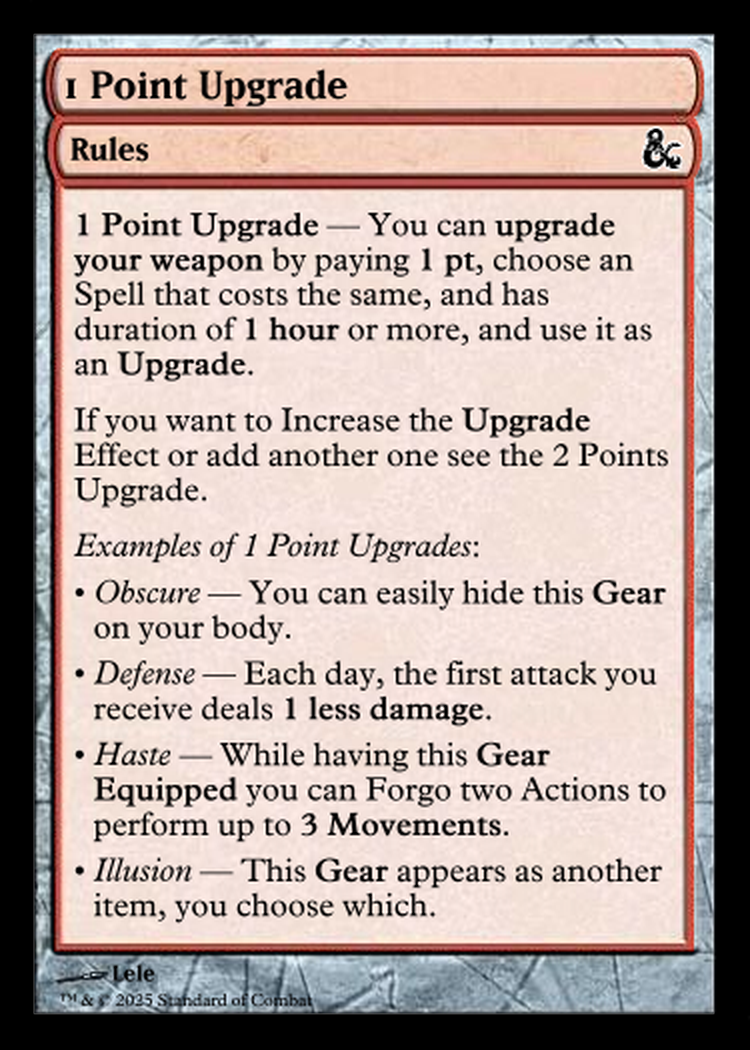
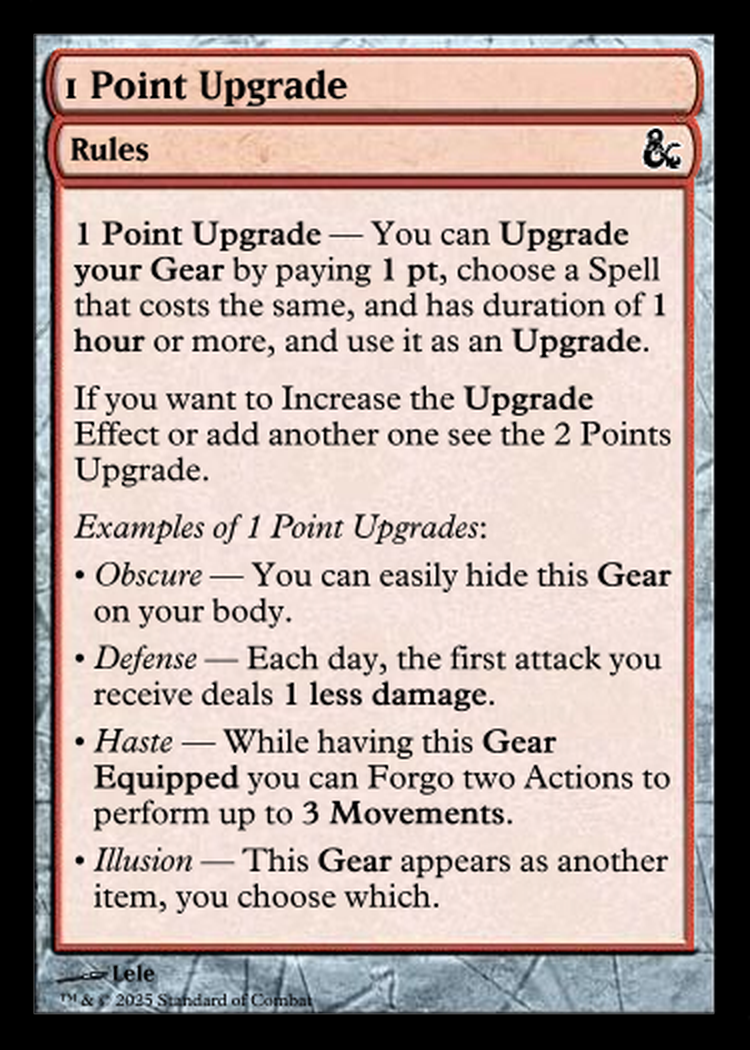
Quartz sync: Aug 1, 2025, 9:37 AM

Changed region(s): [[0.092, 0.1829, 0.8893, 0.8838]]

diff --git a/content/Notes & Images/Heal and Repair.md b/content/Notes & Images/Heal and Repair.md
@@ -2,13 +2,13 @@
 aliases:
   - Heal
   - Repair
-  - regain
+  - Regain
   - Repaired
   - Healed
 ---
 %%
 - ***Type***: Rules - Table
-- ***Description***:<br>To regain [[SoC • Rules Chapter - HEALTH|Health]] you move a certain number of [[SoC • Rules Chapter - HEALTH|Health Cards]] from your [[SoC • Rules - Discard Pile]] to your [[SoC • Rules - Your Deck, Your Character]].<br><br>**Healing**:<br>• You can magically heal a Creature (including yourself) by using a [[SoC • Spell Effect - Restore|Restoring]] [[SoC • Rules Chapter - CUSTOM SPELLS|Spell]]. You'll instantly **regain** **1 or more** [[SoC • Rules Chapter - HEALTH|Health Cards]], specified by the spell effect.<br>• If you some have time to spare, or as part of a [[Rest and Recovery|short rest]], you can try using the [[Medicine]] skill.<br>• After [[Rest and Recovery|a Night of Rest]] you'll regain all [[SoC • Rules Chapter - HEALTH|Character's Health]].<br><br>**Repairing**:<br>• For [[Damaged Gear|Damaged Gear and Equipment]], you can use a [[SoC • Spell Effect - Mend|Mending]] spell to instantly repair it.<br>• If you have time to spare, or as part of a [[Rest and Recovery|short rest]], you can try to use the [[Forging]] skill.<br>• ***However, [[SoC • Rules - Destroyed Gear]] cannot be repaired, and will need to replaced entirely***. 
+- ***Description***:<br>**Healing**:<br>• You can magically heal a Creature (including yourself) by using a **[[SoC • Spell Effect - Restore|Restoring]] [[SoC • Rules Chapter - CUSTOM SPELLS|Spell]]**. You'll instantly **regain 1 or more** [[SoC • Rules Chapter - HEALTH|Health Cards]], specified by the spell effect. (_take that number of Health Cards from your [[SoC • Rules - Discard Pile|Discard Pile]] and add them back to your Deck_)<br>• If you some have time to spare, or as part of a [[Rest and Recovery|short rest]], you can try using the **[[Medicine]] [[SoC • Rules Chapter - SKILLS|Skill]]**.<br>• After [[SoC • Rules - A Night of Rest|A Night of Rest]] you'll regain all [[SoC • Rules Chapter - HEALTH|Character's Health]].<br><br>**Repairing**:<br>• For [[Damaged Gear|Damaged Gear and Equipment]], you can use a **[[SoC • Spell Effect - Mend|Mending]] [[SoC • Rules Chapter - CUSTOM SPELLS|Spell]]** to instantly repair it.<br>• If you have time to spare, or as part of a [[SoC • Rest and Recovery - Short Rest|Short Rest]], you can try to use the [[Forging]] skill.<br>• ***However, [[SoC • Rules - Destroyed Gear|Destroyed Gear]] cannot be repaired, and will need to replaced entirely***. 
 - ***Flavor***: 
 - ***Rarity***: common
 - ***Color***: artifact, white 
@@ -16,9 +16,5 @@ aliases:
 - ***Background Color***: 
 - ***Image Filter***: 
 %%
-
-### Card
-
-![[SoC • Card - Heal and Repair.png|325]]
 
 ![[SoC • Card - Heal and Repair.png|325]]

diff --git a/content/Notes & Images/Forging.md b/content/Notes & Images/Forging.md
@@ -1,7 +1,7 @@
 %%
 - ***Image***:<br>![[Forging (image).png|222]]
 - ***Info***: Skill
-- ***Description***:<br>Learn the art of the **Forge** to:<br>• [[SoC • Rules - Craft New Equipment|Craft]], [[SoC • Rules - Upgrading a Piece of Equipment|Upgrade]] and [[Heal and Repair|Repair]] [[SoC • Rules Chapter - BASIC EQUIPMENT|Equipment]].<br>• Identify and understand how a certain [[SoC • Rules Chapter - CUSTOM GEAR|Gear]] works.<br><br>You can **[[SoC • Rules - Craft New Equipment|Craft]]** or **[[SoC • Rules - Upgrading a Piece of Equipment|Upgrade]]** a piece of Equipment, by spending **1 hour** to work on it, and then make a [[Forging]] [[SoC • Rules Chapter - SKILLS|Skill Check]] with a [[SoC • Rules Chapter - SKILLS|DC]] of **10 + 3 times the total cost of the equipment**, if you succeed you can spend **Hero Points** to pay its cost and obtain the **equipment**.<br>You can also work **1 hour** on a piece of [[Damaged Gear|Damaged]] Equipment to [[Heal and Repair|Repair]] it. To succeed make a [[Forging]] [[SoC • Rules Chapter - SKILLS|Skill Check]] with a [[SoC • Rules Chapter - SKILLS|DC]] of **5 + 3 times the total cost of the equipment**.<br>You can try to [[SoC • Rules - Craft New Equipment|Craft]], [[SoC • Rules - Upgrading a Piece of Equipment|Upgrade]] or [[Heal and Repair|Repair]] a piece of Equipment this way, as part of a [[Rest and Recovery|short rest]].
+- ***Description***:<br>Learn the art of the **Forge** to:<br>• [[SoC • Rules - Forging your Gear|Craft]], [[SoC • Rules - Upgrading a Piece of Equipment|Upgrade]] and [[Heal and Repair|Repair]] [[SoC • Rules Chapter - BASIC EQUIPMENT|Equipment]].<br>• Identify and understand how a certain [[SoC • Rules Chapter - CUSTOM GEAR|Gear]] works.<br><br>You can **[[SoC • Rules - Forging your Gear|Craft]]** or **[[SoC • Rules - Upgrading a Piece of Equipment|Upgrade]]** a piece of Equipment, by spending **1 hour** to work on it, and then make a [[Forging]] [[SoC • Rules Chapter - SKILLS|Skill Check]] with a [[SoC • Rules Chapter - SKILLS|DC]] of **10 + 3 times the total cost of the equipment**, if you succeed you can spend **Hero Points** to pay its cost and obtain the **equipment**.<br>You can also work **1 hour** on a piece of [[Damaged Gear|Damaged]] Equipment to [[Heal and Repair|Repair]] it. To succeed make a [[Forging]] [[SoC • Rules Chapter - SKILLS|Skill Check]] with a [[SoC • Rules Chapter - SKILLS|DC]] of **5 + 3 times the total cost of the equipment**.<br>You can try to [[SoC • Rules - Forging your Gear|Craft]], [[SoC • Rules - Upgrading a Piece of Equipment|Upgrade]] or [[Heal and Repair|Repair]] a piece of Equipment this way, as part of a [[Rest and Recovery|short rest]].
 - ***Flavor***: 
 - ***Color***: red 
 - ***Rarity***: common

diff --git a/content/Notes & Images/SoC • Rules - 2 Points Upgrade.md b/content/Notes & Images/SoC • Rules - 2 Points Upgrade.md
@@ -4,7 +4,7 @@ aliases:
 ---
 %%
 - ***Type***: Rules
-- ***Description***:<br>**2 Points Upgrade** — You can **upgrade your weapon** by paying **2 pts**, choose one [[SoC • Rules Chapter - CUSTOM SPELLS|Spell]] with the same cost, (_and has duration of **1 hour** or more_) or **2** Spells that cost **1 pts** each (_and have duration of **1 hour** or more_), and use it/them as an **Upgrade**. However, you also need to choose and add one **[[SoC • Rules Chapter - CUSTOM GEAR|Gear Defect]]** as well.<br>_Examples of 2 Points Upgrades_:<br>• _[[SoC • Spell Effect - Harm|Harm-2]]_ — This Gear deals **1d4** more damages.<br>• _[[SoC • Spell Effect - Mend|Mend-2]]_ — Each day, if this **Gear** is [[Damaged Gear|Damaged]], it gets magically [[Heal and Repair|Repaired]]. Otherwise, the first time this weapon would become [[Damaged Gear|Damaged]], instead it does not.<br>• _[[SoC • Spell Effect - Sensory|Sensory-2]]_ — While having this **Gear** **Equipped** you see see all **Invisible** objects and Creatures **in your Zone**.
+- ***Description***:<br>**2 Points Upgrade** — You can **Upgrade your Gear** by paying **2 pts**, choose one [[SoC • Rules Chapter - CUSTOM SPELLS|Spell]] with the same cost, (_and has duration of **1 hour** or more_) or **2** Spells that cost **1 pts** each (_and have duration of **1 hour** or more_), and use it/them as an **Upgrade**. However, you also need to choose and add one **[[SoC • Rules Chapter - CUSTOM GEAR|Gear Defect]]** as well.<br>_Examples of 2 Points Upgrades_:<br>• _[[SoC • Spell Effect - Harm|Harm-2]]_ — This Gear deals **1d4** more damages.<br>• _[[SoC • Spell Effect - Mend|Mend-2]]_ — Each day, if this **Gear** is [[Damaged Gear|Damaged]], it gets magically [[Heal and Repair|Repaired]]. Otherwise, the first time this weapon would become [[Damaged Gear|Damaged]], instead it does not.<br>• _[[SoC • Spell Effect - Sensory|Sensory-2]]_ — While having this **Gear** **Equipped** you see see all **Invisible** objects and Creatures **in your Zone**.
 - ***Effects***: 
 - ***Limitations***: 
 - ***Color***: artifact, red 

diff --git a/content/Notes & Images/SoC • Rules - 1 Point Upgrade.md b/content/Notes & Images/SoC • Rules - 1 Point Upgrade.md
@@ -4,7 +4,7 @@ aliases:
 ---
 %%
 - ***Type***: Rules
-- ***Description***:<br>**1 Point Upgrade** — You can **upgrade your weapon** by paying **1 pt**, choose an [[SoC • Rules Chapter - CUSTOM SPELLS|Spell]] that costs the same, and has duration of **1 hour** or more, and use it as an **Upgrade**.<br>If you want to Increase the **Upgrade** Effect or add another one see the [[SoC • Rules - 2 Points Upgrade|2 Points Upgrade]].<br>_Examples of 1 Point Upgrades_:<br>• _[[SoC • Spell Effect - Obscure|Obscure]]_ — You can easily hide this **Gear** on your body.<br>• _[[Attack, Defense and Combat Damage|Defense]]_ — Each day, the first attack you receive deals **1 less damage**.<br>• _[[SoC • Spell Effect - Haste|Haste]]_ — While having this **Gear** **Equipped** you can [[SoC • Rules - Forgo an Action|Forgo two Actions]] to perform up to **3 [[SoC • Generic Action - Movement or Skill|Movements]]**.<br>• _[[SoC • Spell Effect - Illusion|Illusion]]_ — This **Gear** appears as another item, you choose which.
+- ***Description***:<br>**1 Point Upgrade** — You can **Upgrade your Gear** by paying **1 pt**, choose a [[SoC • Rules Chapter - CUSTOM SPELLS|Spell]] that costs the same, and has duration of **1 hour** or more, and use it as an **Upgrade**.<br>If you want to Increase the **Upgrade** Effect or add another one see the [[SoC • Rules - 2 Points Upgrade|2 Points Upgrade]].<br>_Examples of 1 Point Upgrades_:<br>• _[[SoC • Spell Effect - Obscure|Obscure]]_ — You can easily hide this **Gear** on your body.<br>• _[[Attack, Defense and Combat Damage|Defense]]_ — Each day, the first attack you receive deals **1 less damage**.<br>• _[[SoC • Spell Effect - Haste|Haste]]_ — While having this **Gear** **Equipped** you can [[SoC • Rules - Forgo an Action|Forgo two Actions]] to perform up to **3 [[SoC • Generic Action - Movement or Skill|Movements]]**.<br>• _[[SoC • Spell Effect - Illusion|Illusion]]_ — This **Gear** appears as another item, you choose which.
 - ***Effects***: 
 - ***Limitations***: 
 - ***Color***: artifact, red 

diff --git a/content/Notes & Images/SoC • Rules - Forging your Gear.md b/content/Notes & Images/SoC • Rules - Forging your Gear.md
@@ -1,10 +1,12 @@
 ---
 aliases:
   - Forging your Gear
+  - Craft New Equipment
+  - Craft
 ---
 %%
 - ***Type***: Rules
-- ***Description***:<br>If you have the necessary components (_[[SoC • Rules Chapter - NEW CAMPAIGN|Hero Points]]_), you can spend **1 hour** to work on a piece of **Gear** you wish to **Crate** or **Upgrade**.<br>You then make a [[Forging]] [[SoC • Rules Chapter - SKILLS|Skill Check]] with a [[SoC • Rules Chapter - SKILLS|DC]] of **10 + 3 times the total cost of the equipment**, if you succeed you can spend the **points** to obtain the **equipment**.<br><br>Failing the [[Forging]] [[SoC • Rules Chapter - SKILLS|Skill Check]] won't consume any [[SoC • Rules Chapter - NEW CAMPAIGN|Hero Points]].<br><br>If your **GM** allows it, you can also come up with entirely new pieces of Equipment!
+- ***Description***:<br>If you have the necessary components (_[[SoC • Rules Chapter - NEW CAMPAIGN|Hero Points]]_), you can spend **1 hour** to work on a piece of **Gear** you wish to **Crate** or **Upgrade**.<br>You then make a [[Forging]] [[SoC • Rules Chapter - SKILLS|Skill Check]] with a [[SoC • Rules Chapter - SKILLS|DC]] of **10 + 3 times the total cost of the equipment**, if you succeed you can spend the **points** to obtain the **equipment**.<br>If you wish to **[[Heal and Repair|Repair]]** a piece of equipment the [[SoC • Rules Chapter - SKILLS|DC]] is lower: **5 + 3 times the total cost of the equipment**.<br><br>Failing the [[Forging]] [[SoC • Rules Chapter - SKILLS|Skill Check]] won't consume any [[SoC • Rules Chapter - NEW CAMPAIGN|Hero Points]].<br>If your **GM** allows it, you can also come up with entirely new pieces of Equipment!
 - ***Flavor***: Example — If you want to upgrade your **1 pts** gear with a **2 pts upgrade** its total cost would be **3**, so the [[Forging]] **DC** would be **19**.
 - ***Color***: artifact, red 
 - ***Rarity***: common

diff --git a/content/SoC • Introduction - Spend your Points.md b/content/SoC • Introduction - Spend your Points.md
@@ -4,7 +4,7 @@ aliases:
 ---
 %%
 - ***Type***: Introduction
-- ***Description***:<br>**Hero Points** or more generally **Points**, can be used by players to buy or craft items, and upgrade their characters.<br>The most common way to spend your hero points is by [[SoC • Rules - Meditate and Train|Meditating or Training]], to affine your [[SoC • Rules Chapter - SKILLS|Skills]], and increase your [[SoC • Rules Chapter - HEALTH|Health]] or [[SoC • Rules Chapter - ENERGY|Energy]].<br><br>But you could also [[SoC • Rules - Craft New Equipment|Craft]] or [[SoC • Rules - Upgrading a Piece of Equipment|Upgrade]] your **Gear**.<br>Learn new **[[SoC • Rules Chapter - CUSTOM SPELLS|Spells]]**, or Customize existing ones to your need.<br>Or even spend your **Points** and time into training one of your **[[SoC • Rules Chapter - COMPANIONS|Companions]]**.
+- ***Description***:<br>**Hero Points** or more generally **Points**, can be used by players to buy or craft items, and upgrade their characters.<br>The most common way to spend your hero points is by [[SoC • Rules - Meditate and Train|Meditating or Training]], to affine your [[SoC • Rules Chapter - SKILLS|Skills]], and increase your [[SoC • Rules Chapter - HEALTH|Health]] or [[SoC • Rules Chapter - ENERGY|Energy]].<br><br>But you could also [[SoC • Rules - Forging your Gear|Craft]] or [[SoC • Rules - Upgrading a Piece of Equipment|Upgrade]] your **Gear**.<br>Learn new **[[SoC • Rules Chapter - CUSTOM SPELLS|Spells]]**, or Customize existing ones to your need.<br>Or even spend your **Points** and time into training one of your **[[SoC • Rules Chapter - COMPANIONS|Companions]]**.
 - ***Flavor***: But let's not get too ahead of ourselves, for now just remember that each Players start with a bunch of Points to spend!
 - ***Rarity***: common
 - ***Color***: artifact, white 

diff --git a/content/SoC • Optional Rule - Rune Wars.md b/content/SoC • Optional Rule - Rune Wars.md
@@ -1,0 +1,17 @@
+---
+aliases:
+  - Rune Wars
+---
+
+%%
+- ***Type***: Optional Rule
+- ***Description***:<br>_Optional Rule_ — Your **GM** will decide if they want to add this rule to the game.<br><br>All Characters gain the ability of [[SoC • Core Ability - Runic Caster|Runic Casters]] to Create and cast spells on the fly, using their **Runes** (_each Rune is a **[[SoC • Rules Chapter - CUSTOM SPELLS|Spell Effect]]**_). And cannot Create new Spells in other way.<br>Each Character starts with a chosen or random **Rune**.<br>Every time a Character reaches **+5** in a [[SoC • Rules Chapter - SKILLS|Skill]], it gains access to another **Rune** of its choice.<br>Remove [[SoC • Rules Chapter - CUSTOM SPELLS|Spell Limitations]] and the "[[SoC • Core Ability - Runic Caster|Runic Caster]]" [[SoC • Rules - Core Ability|Core Ability]].<br>The "[[SoC • Spell Effect - Passive|Passive]]" [[SoC • Rules Chapter - CUSTOM SPELLS|Effect]] cannot become a **Rune**, to make a Spell that cost **2 [[SoC • Rules Chapter - ENERGY|Energy]] or less** into a Passive, a Character needs to pay **3 pts**.<br>The "[[SoC • Spell Effect - Lasting|Lasting]]" [[SoC • Rules Chapter - CUSTOM SPELLS|Effect]] cannot become a **Rune**, to make a Spell that cost **1 [[SoC • Rules Chapter - ENERGY|Energy]]** into a Lasting Spell, a Character needs to pay **1 pt**.
+- ***Flavor***: 
+- ***Rarity***: special
+- ***Color***: artifact, multicolor 
+- ***Nameplate Color***: 
+- ***Background Color***: 
+- ***Image Filter***: 
+%%
+
+![[SoC • Card - Runes are a Go.png|325]]

diff --git a/content/Notes & Images/Damaged Gear.md b/content/Notes & Images/Damaged Gear.md
@@ -2,4 +2,14 @@
 aliases:
   - Damaged
   - Damaged Condition
+  - Damaged Gear
 ---
+%%
+- ***Type***: Rules
+- ***Description***:<br>_During your Adventure you will surely come across Damaged Gear!<br>It could be due to a missed attack, your Weapon's blade encounters a rock and breaks in half, or due to too mach fighting your blade becomes dull as cheap tableware. Or your Armor that has served you well and took a massive damaged in your stead, ..._<br>Once your Gear gets Damaged, add it to your [[SoC • Rules - Discard Pile|Discard Pile]], it is now useless! It loses all Effects and if it was a Weapon now only deals **1 force damage**.<br>You can [[Heal and Repair|Regain]] your **Damaged Gear** only by **[[Heal and Repair|Repairing]] it**, with a **[[SoC • Spell Effect - Mend|Mending]] [[SoC • Rules Chapter - CUSTOM SPELLS|Spell]]** (_a [[SoC • Rules Chapter - CUSTOM SPELLS|Spell]] with the [[SoC • Spell Effect - Mend|Mend]] Effect_) or with a bit of time and by Succeeding in a **[[Forging]] [[SoC • Rules Chapter - SKILLS|Skill Check]]**.
+- ***Flavor***: 
+- ***Rarity***: common
+- ***Color***: artifact, black 
+%%
+
+![[SoC • Card - Damaged Gear.png|325]]

diff --git a/content/index.md b/content/index.md
@@ -28,7 +28,6 @@ _Heavily inspired by [Crow and Skull](https://www.runehammer.online/crown-skull-
 10. ***[[SoC • Rules Chapter - LINEAGES|Choose Your Lineage]]*** (*Ask you **GM** for the Campaign's Settings and Lineages*)
 ----
 ### Making of This Project, Useful Files
-- [[SoC - List of Cards|All Cards]] 
 - [[SoC - Cards to Print|Cards to print]] 
 - [[TO PHISICALLY PRINT]]
 - [[Soc - AI Prompts Examples|AI Prompts]] 

diff --git a/content/SoC • Rules Chapter - OPTIONAL RULES.md b/content/SoC • Rules Chapter - OPTIONAL RULES.md
@@ -32,7 +32,7 @@ cssclasses:
 
 ![[SoC • Optional Rule - Oops! All Runic Casters|Oops! All Runic Casters]]
 
-![[SoC • Optional Rule - Runes are a Go!|Runes are a Go!]]
+![[SoC • Optional Rule - Rune Wars|Rune Wars]]
 
 ![[SoC • Optional Rule - Its Nerf or Nothing|Its Nerf or Nothing]]
 

diff --git a/content/Notes & Images/SoC • Rules Chapter - COMBAT.md b/content/Notes & Images/SoC • Rules Chapter - COMBAT.md
@@ -13,8 +13,9 @@ cssclasses:
   - seamless-embed
 ---
 # Attack and Defensive Roll
-
 ![[SoC • Rules - Attack and Defensive Roll|Attack and Defensive Roll]]
+
+![[SoC • Rules - Melee and Ranged Attacks|Melee and Ranged Attacks]]
 
 ![[SoC • Rules - Damage Roll|Damage Roll]]
 

diff --git a/content/Notes & Images/SoC • Rules Chapter - SKILLS.md b/content/Notes & Images/SoC • Rules Chapter - SKILLS.md
@@ -32,6 +32,7 @@ Mark your Skill's Modifier in your [[SoC • Card - Character Details|Character 
 
 ![[SoC • Rules - Critical Success and Failure]]
 
+![[SoC • Rules - Inspiration|Inspiration]]
 # Cards
 
 ![[Agility]]
